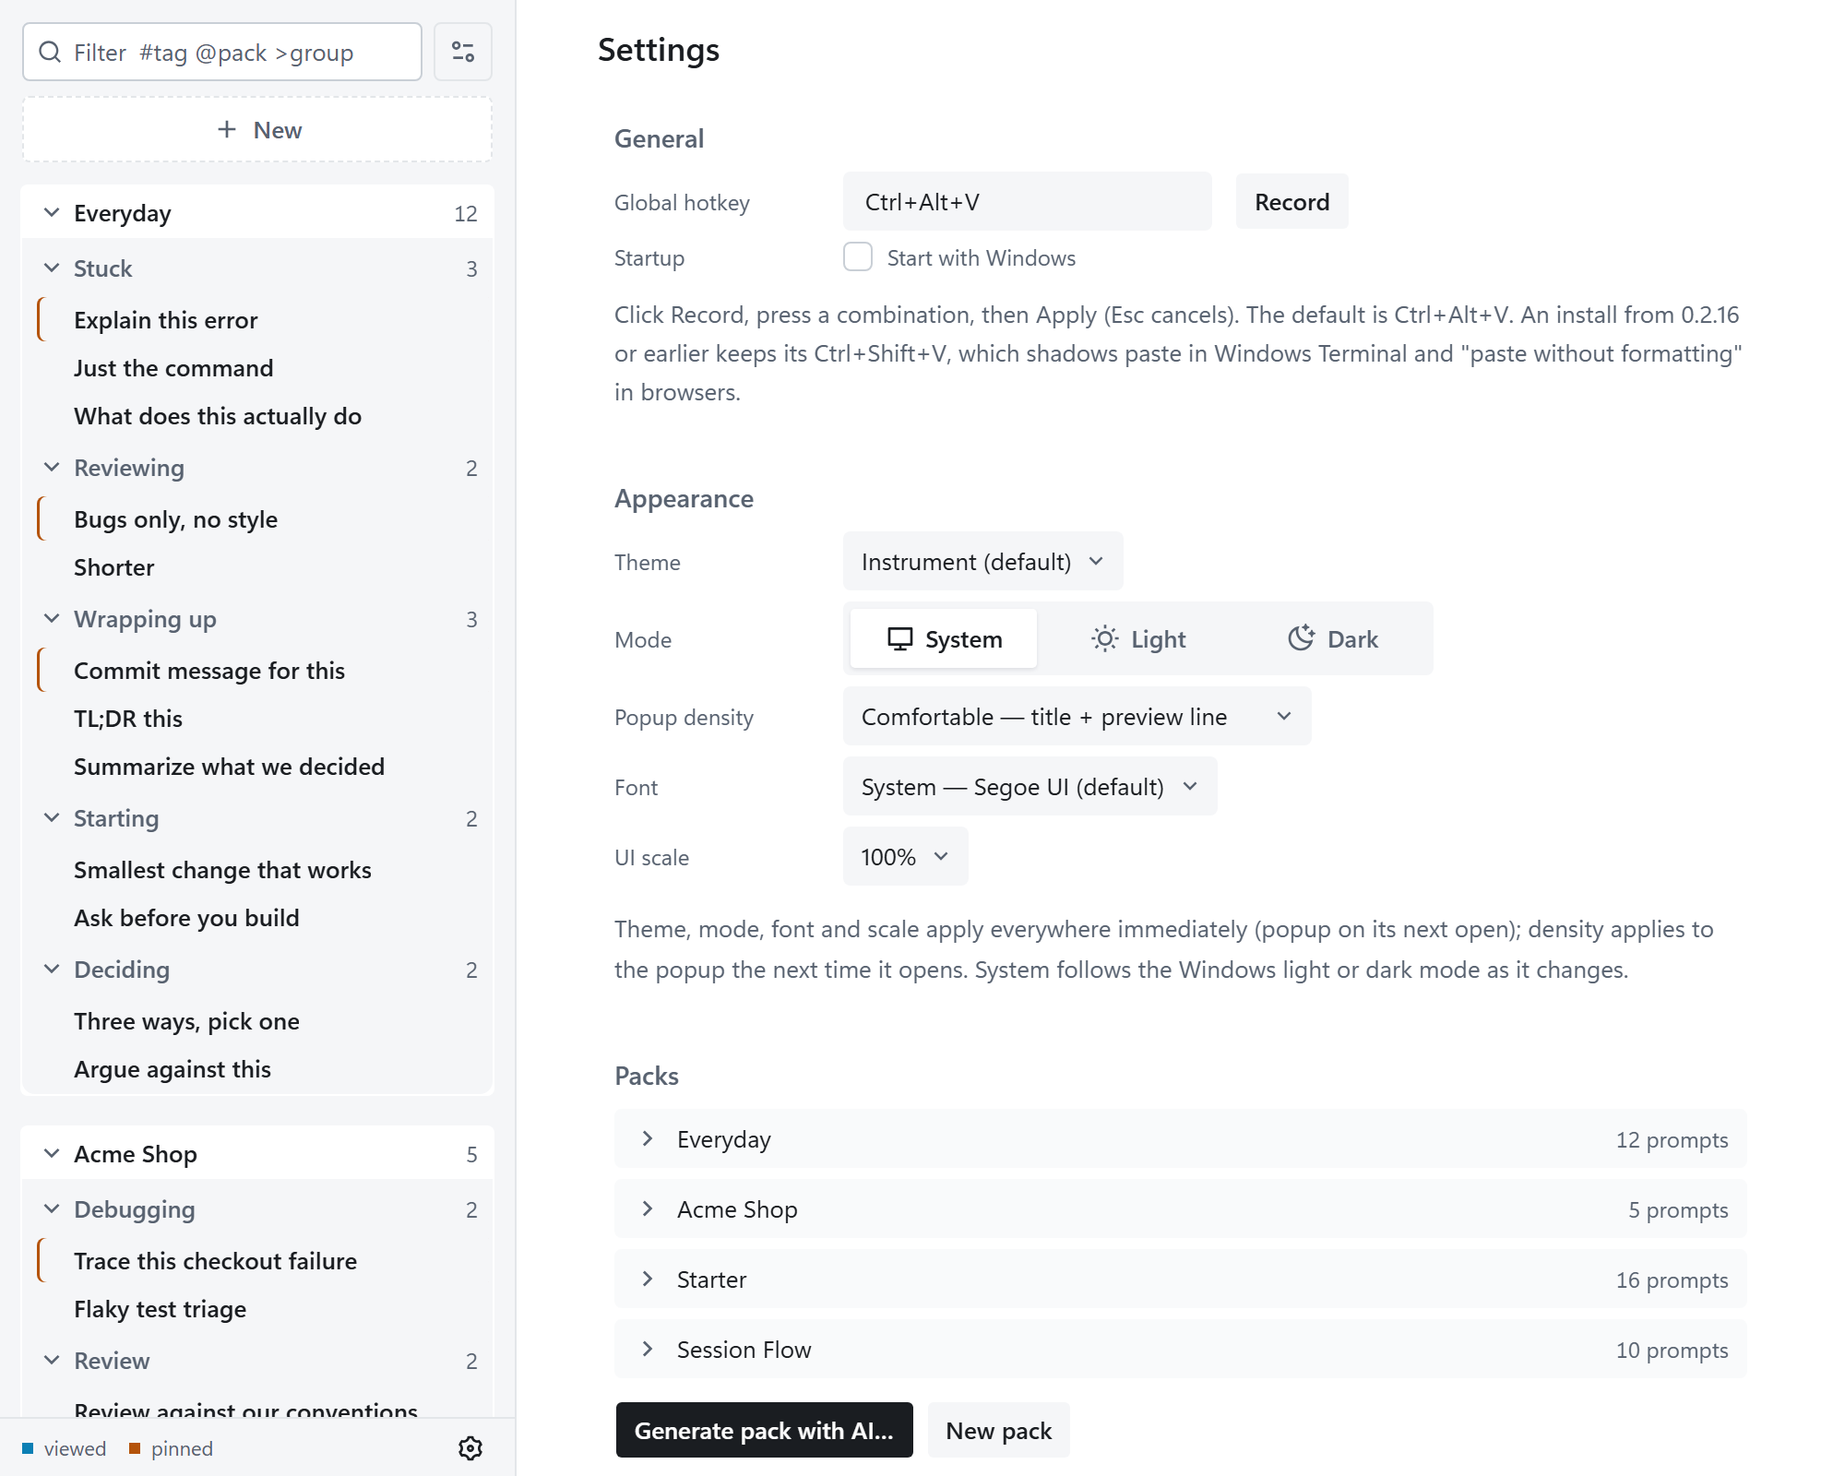
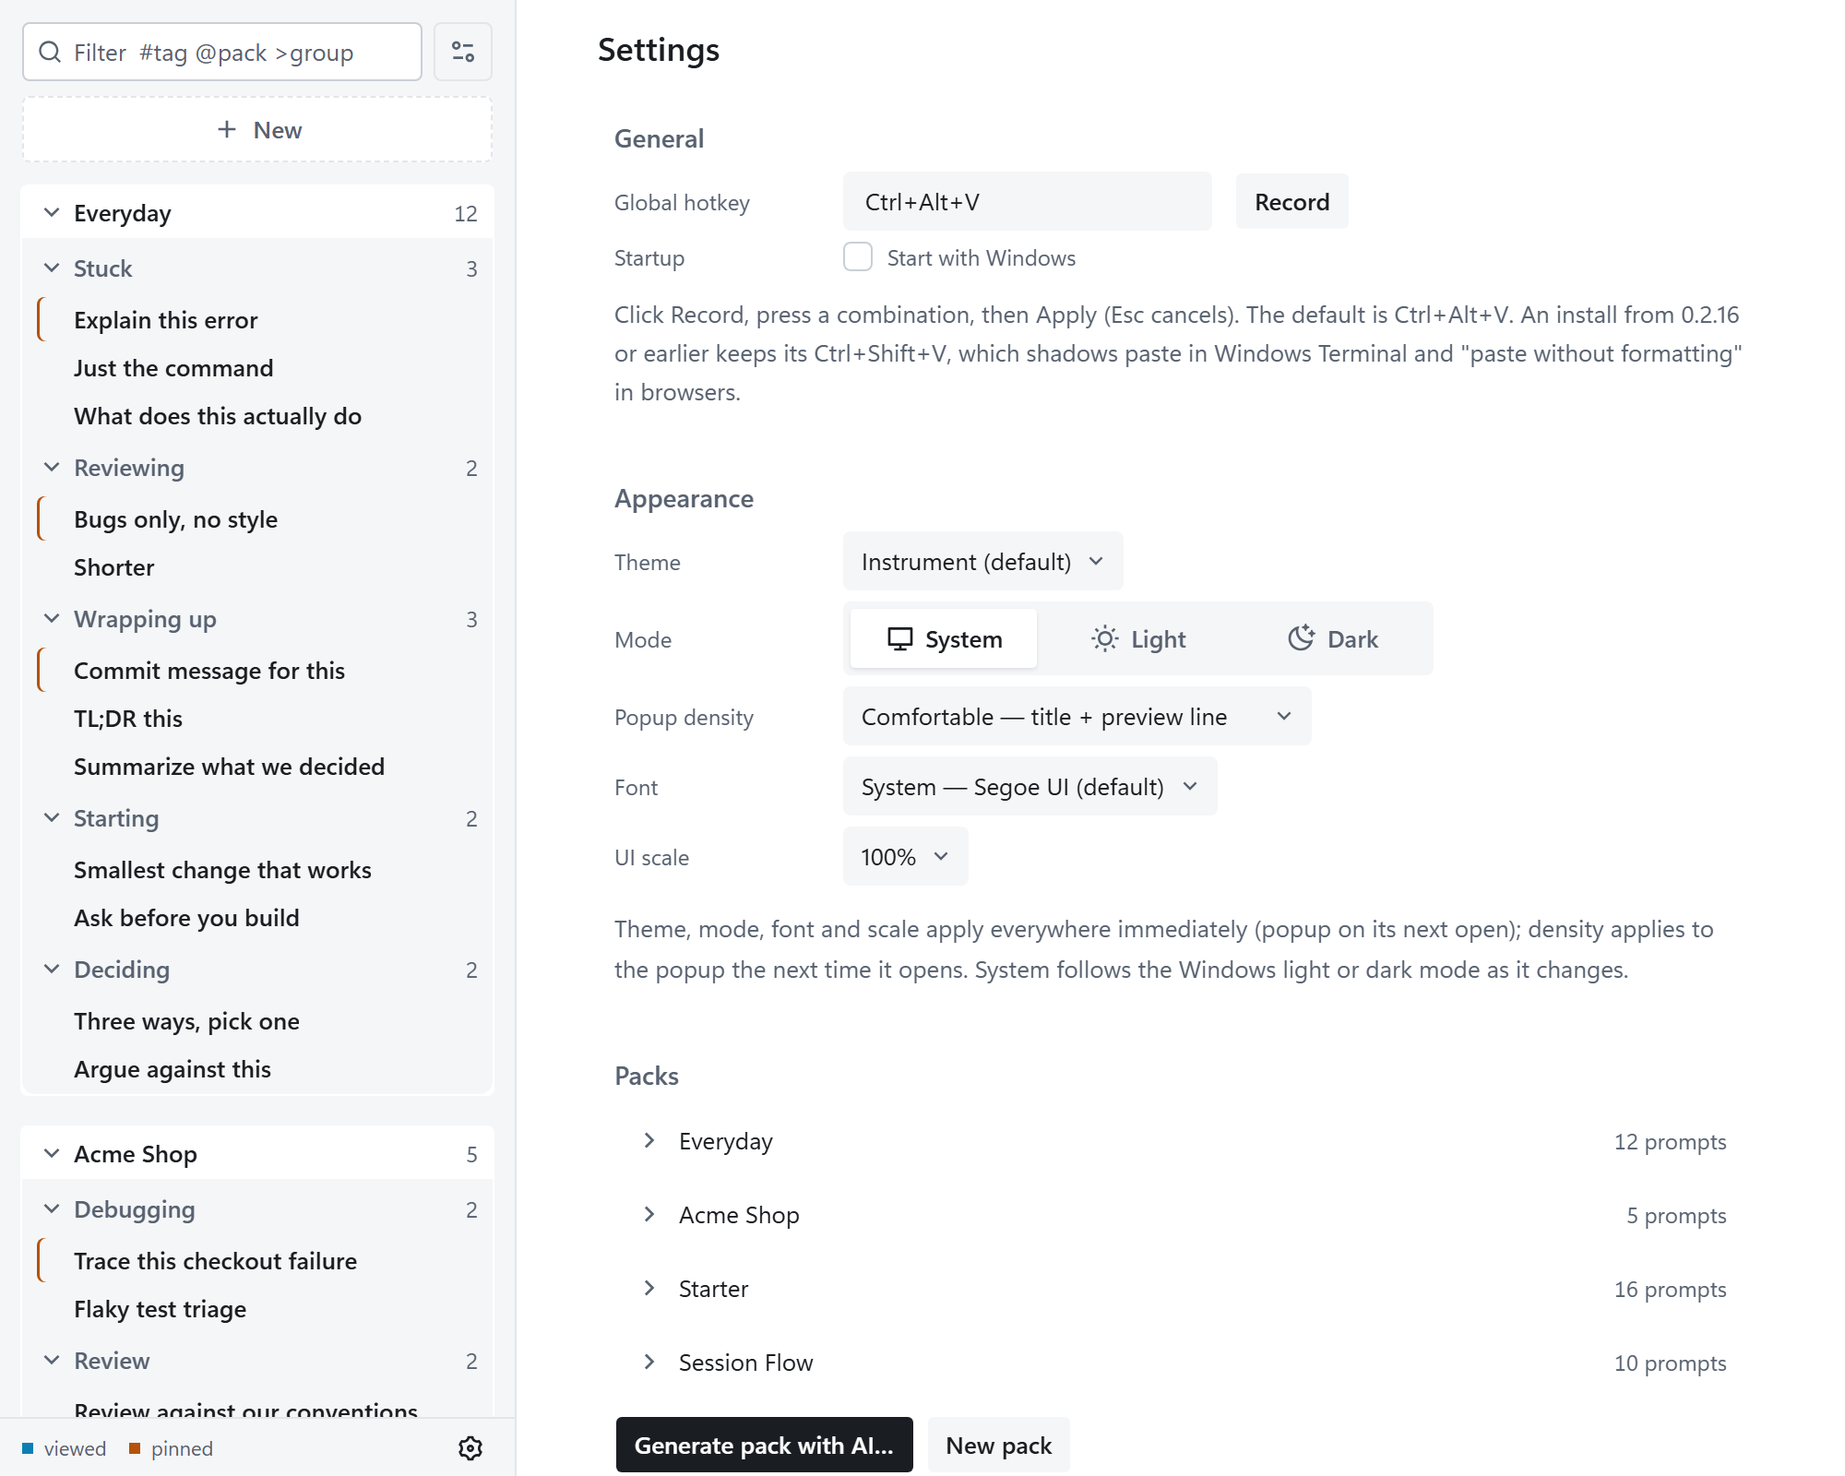
Design: the expandable panel, named once as three tokens and one component
The pattern the app folds things open with, a head that names the thing
on its own ground and, open, a body on a lighter ground holding what it
is made of, was drawn three times from raw grounds: the trees' pack
frames, the editor's Prompt panel, Settings' pack cards. The user asked
for it to be named (2026-10-10). Three colour tokens in both palettes'
files, panel-head (surface-raised's value), panel-body (control's) and
panel-edge (none in Instrument, Indigo's line), flow through the token
pipeline into index.css, and components/panel.tsx draws them: panelClass
and Panel for the frame, panelBodyClass and PanelBody for the body. The
tree's TreeSection and TreeChildren, the module utility (so the editor's
and Settings' panels), the Prompt field, Settings' pack cards and the
overview card's edge all read the tokens; the hand-written
--module-border lines go, and the theme wiring script no longer writes
one. The frame case reads the panel tokens; BEHAVIOR.md's tree paragraph
names the three. Screenshots and the clip regenerated.

diff --git a/src/index.css b/src/index.css
@@ -103,6 +103,9 @@
     --param-field-bg: #fbf1dc;
     --param-config: #9a2a8c;
     --param-config-bg: #f9e6f5;
+    --panel-head: #ffffff;
+    --panel-body: #f5f6f8;
+    --panel-edge: transparent;
     --shadow-shell: 0 8px 24px rgba(16, 24, 40, 0.16);
     --shadow-pop: 0 4px 12px rgba(16, 24, 40, 0.10);
     --shadow-segment: 0 1px 2px rgba(16, 24, 40, 0.10);
@@ -112,12 +115,6 @@
     --radius: 4px;
     --search-radius: 4px;
     /* @tokens end */
-    /* A panel's edge: Instrument draws none (the user's call, 2026-10-10:
-       no 1 px line around a panel anywhere); its panels are their ground
-       alone on the pane, the Paper card on the sunk sidebar or shell, the
-       shadowed card on the pane. Indigo keeps its hairline. The width stays
-       so nothing moves between themes. It was Ink at 35% (40% dark). */
-    --module-border: transparent;
 }
 
 .dark {
@@ -159,6 +156,9 @@
     --param-field-bg: #3a2e12;
     --param-config: #ea8fdc;
     --param-config-bg: #3b1e37;
+    --panel-head: #1c2024;
+    --panel-body: #22272c;
+    --panel-edge: transparent;
     --shadow-shell: 0 8px 24px rgba(0, 0, 0, 0.55);
     --shadow-pop: 0 4px 12px rgba(0, 0, 0, 0.45);
     --shadow-segment: 0 1px 2px rgba(0, 0, 0, 0.4);
@@ -166,7 +166,6 @@
     --chip-tint: 16%;
     --chip-edge: 0%;
     /* @tokens end */
-    --module-border: transparent;
 }
 
 /* Indigo, the second theme (Settings → Appearance → Theme; BEHAVIOR.md →
@@ -212,6 +211,9 @@
     --param-field-bg: #fff4e1;
     --param-config: #9a2a8c;
     --param-config-bg: #f9e6f5;
+    --panel-head: #ffffff;
+    --panel-body: #eef0f7;
+    --panel-edge: #e6e8f0;
     --shadow-shell: 0 24px 80px rgba(0, 0, 0, 0.18);
     --shadow-pop: 0 8px 24px rgba(15, 17, 24, 0.12);
     --shadow-segment: 0 1px 2px rgba(15, 17, 24, 0.10);
@@ -221,7 +223,6 @@
     --radius: 10px;
     --search-radius: 999px;
     /* @tokens end */
-    --module-border: var(--border);
 }
 
 :root[data-theme="indigo"].dark {
@@ -262,6 +263,9 @@
     --param-field-bg: #282117;
     --param-config: #ea8fdc;
     --param-config-bg: #3b1e37;
+    --panel-head: #12141b;
+    --panel-body: #1f2129;
+    --panel-edge: #1c1d22;
     --shadow-shell: 0 24px 80px rgba(0, 0, 0, 0.4);
     --shadow-pop: 0 8px 24px rgba(0, 0, 0, 0.5);
     --shadow-segment: 0 1px 2px rgba(0, 0, 0, 0.4);
@@ -269,7 +273,6 @@
     --chip-tint: 10%;
     --chip-edge: 35%;
     /* @tokens end */
-    --module-border: var(--border);
 }
 
 /* Indigo's one structural difference the tokens can't carry: the sidebar's
@@ -345,10 +348,15 @@
   color: var(--muted-foreground);
 }
 
+/* The manager's panels (the editor's Prompt, Tags and Advanced options,
+   Settings): the expandable panel's head ground and edge
+   (components/panel.tsx; the tokens panel-head and panel-edge, none in
+   Instrument since 2026-10-10, Indigo's line), at the larger radius with
+   12 px inside. The Prompt panel's field is the panel's body. */
 @utility module {
   border-radius: var(--radius-xl);
-  border: 1px solid var(--module-border);
-  background-color: var(--card);
+  border: 1px solid var(--panel-edge);
+  background-color: var(--panel-head);
   padding: calc(var(--spacing) * 3);
 }
 

diff --git a/src/components/tree.tsx b/src/components/tree.tsx
@@ -3,6 +3,7 @@ import { RiArrowDownSLine, RiArrowRightSLine } from "@remixicon/react"
 
 import { cn } from "@/lib/utils"
 import { SELECTED_BAR } from "@/components/menu-styles"
+import { panelBodyClass, panelClass } from "@/components/panel"
 
 // A pinned prompt's mark in both trees: the selection bar's shape in the
 // Warn colour, at the row's left edge; the selection bar wins on a row
@@ -80,16 +81,16 @@ export function TreeName({ children }: { children: ReactNode }) {
 // One pack: its header and, unfolded, its children; 16 px to the next
 // pack, so a pack reads as its own block in a list of compact rows (8 px,
 // one row gap short of a row, let the packs run together; 2026-10-10).
-// Open, the pack is a frame, the editor's Prompt panel in small: the
-// module's border around the card ground, the header on that ground as
-// the panel's title line, and its rows and groups on the lighter
-// secondary ground under it, the way the Prompt field sits under its
-// title (the user asked for the frame, 2026-10-10). The frame pulls out
-// by its own 1 px border, so the header and the rows keep the x they
-// have folded and the chevron stays in the strips' glyph column. Folded,
-// a pack is a header row like any other.
+// Open, the pack is the expandable panel (components/panel.tsx), the
+// editor's Prompt panel in small: the header on the panel's head ground
+// as its title line, and its rows and groups on the body ground under it,
+// the way the Prompt field sits under its title (the user asked for the
+// frame, 2026-10-10). The frame pulls out by its own 1 px edge, so the
+// header and the rows keep the x they have folded and the chevron stays
+// in the strips' glyph column. Folded, a pack is a header row like any
+// other.
 export function TreeSection({ open, className, ...props }: ComponentProps<"div"> & { open?: boolean }) {
-  return <div className={cn("mb-4", open && "-mx-px rounded-lg border border-(--module-border) bg-card", className)} {...props} />
+  return <div className={cn("mb-4", open && cn(panelClass, "-mx-px"), className)} {...props} />
 }
 
 // One group inside a pack: its header and, unfolded, its rows
@@ -97,8 +98,8 @@ export function TreeGroup({ className, ...props }: ComponentProps<"div">) {
   return <div className={cn("flex flex-col gap-0.5", className)} {...props} />
 }
 
-// The run of rows under a header, 2 px apart. A pack's are the frame's
-// body, on the secondary ground with 2 px of air above and below and 8 px
+// The run of rows under a header, 2 px apart. A pack's are the panel's
+// body, with 2 px of air above and below and 8 px
 // in from the frame's left edge, so a row's box and a group's header
 // start under the pack's chevron (their titles on the name column, see
 // treeRowClass). A group's rows sit where the pack's own do: the row's
@@ -110,7 +111,7 @@ export function TreeChildren({ level, className, ...props }: ComponentProps<"div
     <div
       className={cn(
         "flex flex-col gap-0.5",
-        level === "pack" && "rounded-b-[7px] bg-secondary py-0.5 pl-2",
+        level === "pack" && cn(panelBodyClass, "py-0.5 pl-2"),
         className
       )}
       {...props}

diff --git a/src/manager/Settings.tsx b/src/manager/Settings.tsx
@@ -6,6 +6,7 @@ import { SEGMENT_TRACK, Select, commitKey, fieldVariants, segmentClass } from "@
 import { Checkbox } from "@/components/ui/checkbox"
 import { Label } from "@/components/ui/label"
 import { C } from "@/lib/core"
+import { Panel, PanelBody } from "@/components/panel"
 import { FONTS, PALETTES, fontStack } from "@/lib/prefs"
 import { cn } from "@/lib/utils"
 import { DEFAULT_PACK, useManager } from "./state"
@@ -335,12 +336,15 @@ export function Settings() {
             const isOpen = expanded.has(name)
             const Chev = isOpen ? RiArrowDownSLine : RiArrowRightSLine
             return (
-              <div key={name} className="overflow-hidden rounded-md bg-secondary/60">
+              // The expandable panel (components/panel.tsx), as the trees'
+              // pack frames and the editor's Prompt panel: the name on the
+              // head, the file and its actions on the body
+              <Panel key={name} className="overflow-hidden">
                 {/* A real disclosure button: Enter/Space work, state is announced */}
                 <button
                   type="button"
                   aria-expanded={isOpen}
-                  className="flex w-full cursor-pointer select-none items-center gap-2 px-2.5 py-1.5 text-left text-ui text-foreground hover:bg-secondary"
+                  className="flex w-full cursor-pointer select-none items-center gap-2 rounded-md px-2.5 py-1.5 text-left text-ui text-foreground hover:bg-hover"
                   onClick={() => {
                     const next = new Set(expanded)
                     if (next.has(name)) next.delete(name)
@@ -356,7 +360,7 @@ export function Settings() {
                   <span className="text-xs tabular-nums text-muted-foreground">{C.plural(count, "prompt")}</span>
                 </button>
                 {isOpen && (
-                  <div className="flex flex-col gap-2 border-t border-border px-2.5 py-2 text-ui text-muted-foreground">
+                  <PanelBody className="flex flex-col gap-2 px-2.5 py-2 text-ui text-muted-foreground">
                     <div className="break-all">{meta?.path || "This pack has no file yet"}</div>
                     <div className="flex flex-wrap gap-1.5">
                       {meta?.path ? (
@@ -428,9 +432,9 @@ export function Settings() {
                         {m.isLocked(name) ? "Delete (locked)" : "Delete pack…"}
                       </Button>
                     </div>
-                  </div>
+                  </PanelBody>
                 )}
-              </div>
+              </Panel>
             )
           })}
         </div>

diff --git a/src/components/panel.tsx b/src/components/panel.tsx
@@ -1,0 +1,28 @@
+import type { ComponentProps } from "react"
+
+import { cn } from "@/lib/utils"
+
+// The expandable panel, one look wherever the app folds a thing open: a
+// head on its own ground that names the thing, and, open, a body under
+// it on a lighter ground (a step up in dark, sunk in light) holding what
+// the thing is made of, a list of prompts, a text field, a pack's file and
+// actions. The editor's Prompt panel is the pattern (its title line over
+// the field); the trees' pack frames and Settings' pack cards draw the
+// same since 2026-10-10, and the user asked for it to be named once (the
+// `panel-head`, `panel-body` and `panel-edge` tokens in design/tokens.json
+// and the palettes' files; Instrument's edge is none, Indigo's its line).
+// The head's own layout (a tree header, a title line, a disclosure
+// button) and the body's padding are the caller's; the corners are the
+// module's 8 px outside, so the body's bottom corners are 7 inside the
+// 1 px edge. Folded, a panel is whatever its head is on its own.
+
+export const panelClass = "rounded-lg border border-(--panel-edge) bg-(--panel-head)"
+export const panelBodyClass = "rounded-b-[7px] bg-(--panel-body)"
+
+export function Panel({ open = true, className, ...props }: ComponentProps<"div"> & { open?: boolean }) {
+  return <div className={cn(open && panelClass, className)} {...props} />
+}
+
+export function PanelBody({ className, ...props }: ComponentProps<"div">) {
+  return <div className={cn(panelBodyClass, className)} {...props} />
+}

diff --git a/e2e/manager.spec.ts b/e2e/manager.spec.ts
@@ -140,7 +140,7 @@ test("the sidebar's rows are the popup's compact rows, and packs sit a row's hei
   expect(next!.y - (everyday!.y + everyday!.height)).toBeCloseTo(16, 0)
 })
 
-test("an open pack is a frame: header on the card ground, rows on the secondary ground, a border around; folded it is a row", async ({ page }) => {
+test("an open pack is the panel: header on the head ground, rows on the body ground, the edge around; folded it is a row", async ({ page }) => {
   const section = tree(page).locator("[data-pack='Mock Groups']")
   const pack = tree(page).getByRole("treeitem", { name: "Mock Groups, 4 prompts" })
   const body = section.getByRole("group").first()
@@ -151,7 +151,7 @@ test("an open pack is a frame: header on the card ground, rows on the secondary 
   const tokens = await page.evaluate(() => {
     const s = getComputedStyle(document.documentElement)
     const paint = (v: string) => { const d = document.createElement("div"); d.style.backgroundColor = v; document.body.append(d); const c = getComputedStyle(d).backgroundColor; d.remove(); return c }
-    return { card: paint(s.getPropertyValue("--card")), secondary: paint(s.getPropertyValue("--secondary")) }
+    return { card: paint(s.getPropertyValue("--panel-head")), secondary: paint(s.getPropertyValue("--panel-body")) }
   })
   expect(await styleOf(section)).toEqual({ border: 1, bg: tokens.card })
   expect((await styleOf(body)).bg).toBe(tokens.secondary)

diff --git a/src/manager/Overview.tsx b/src/manager/Overview.tsx
@@ -201,10 +201,10 @@ function PromptCard({
       aria-describedby={inputs.length ? badgeId : undefined}
       title={`${name} — click edits, Ctrl+C copies, right-click for actions`}
       className={cn(
-        // The panel edge (--module-border): a hairline in Indigo, none in
-        // Instrument, where the card's shadow is its edge; the accent edge
-        // under the pointer shows in both
-        "flex min-w-0 flex-1 cursor-pointer flex-col gap-1.5 rounded-lg border border-(--module-border) bg-background p-3 text-left text-ui text-foreground transition-colors group-hover/card:border-primary focus-ring",
+        // The panel edge (panel-edge, components/panel.tsx): a hairline in
+        // Indigo, none in Instrument, where the card's shadow is its edge;
+        // the accent edge under the pointer shows in both
+        "flex min-w-0 flex-1 cursor-pointer flex-col gap-1.5 rounded-lg border border-(--panel-edge) bg-background p-3 text-left text-ui text-foreground transition-colors group-hover/card:border-primary focus-ring",
         // A pinned card carries the trees' Warn bar at its left edge, inside
         // the card's own shadow (both are box-shadow, so one declaration)
         s.pinned ? "shadow-[inset_1.5px_0_0_var(--warn),var(--shadow-card)]" : "shadow-(--shadow-card)"

diff --git a/src/manager/Editor.tsx b/src/manager/Editor.tsx
@@ -500,7 +500,7 @@ function EditorInner({ snippet }: { snippet: Snippet }) {
             inset ring, not a border, so it adds no pixel to the inset
             (at px-4 behind a 1 px border the text sat 5 px right of the
             header) */}
-        <div className="-mx-3 flex flex-col overflow-hidden bg-secondary ring-1 ring-inset ring-transparent focus-within:ring-(--focus)">
+        <div className="-mx-3 flex flex-col overflow-hidden bg-(--panel-body) ring-1 ring-inset ring-transparent focus-within:ring-(--focus)">
           <Textarea
             ref={textRef}
             value={text}

diff --git a/BEHAVIOR.md b/BEHAVIOR.md
@@ -147,11 +147,16 @@ and the popup's rows leave it empty. Until 2026-10-10 a pack's children stepped 
 pushed the sidebar's titles past the names, and the popup's rows, with the
 plain 8 px, sat left of their header's name. Packs sit 16 px apart (`TreeSection`), twice
 the earlier 8, so a pack reads as its own block among rows that tight.
-An open pack is a frame, the editor's Prompt panel in small: the panel
-edge (`--module-border`: a hairline in Indigo; none in Instrument since
-2026-10-10, when the user had every panel's 1 px line go, there the
-card ground on the sunk pane is the edge, and the overview's cards keep
-their shadow) around the card ground, the pack's header on that ground as the
+An open pack is the expandable panel (`components/panel.tsx`), the
+editor's Prompt panel in small; Settings' pack cards are the same panel.
+The look is three tokens in `design/tokens.json` and the palettes' files
+(the user asked for it to be named once, 2026-10-10): `panel-head`, the
+ground the name sits on; `panel-body`, the lighter ground under it that
+holds what the thing is made of; `panel-edge`, the 1 px line around (a
+hairline in Indigo; none in Instrument since 2026-10-10, when the user
+had every panel's line go, there the head ground on the sunk pane is the
+edge, and the overview's cards, which take the same edge, keep their
+shadow). So: the edge around the head ground, the pack's header on that ground as the
 panel's title line, and its rows and groups under it on the lighter
 secondary ground, with 2 px of air above and below them, the way the
 Prompt field sits under its title (the user asked for the frame,

diff --git a/.claude/skills/monthly-theme/SKILL.md b/.claude/skills/monthly-theme/SKILL.md
@@ -137,8 +137,8 @@ the branch must hold only the theme.
 2. **Wiring.** `node .claude/skills/monthly-theme/scripts/wire-theme.cjs
    <id> "<Label>"` adds the theme to `PALETTES` in `scripts/tokens.mjs`,
    the two marker regions in `src/index.css` (under
-   `:root[data-theme="<id>"]` and `:root[data-theme="<id>"].dark`, with
-   `--module-border`), the Settings list in `src/lib/prefs.ts`, and widens
+   `:root[data-theme="<id>"]` and `:root[data-theme="<id>"].dark`), the
+   Settings list in `src/lib/prefs.ts`, and widens
    `resolvePalette` in `ui/core.js` (it rewrites the function to a list of
    ids). It is idempotent; run it, then `npm run tokens`. A contrast
    failure names the pair and the theme: darken the text or lighten the
